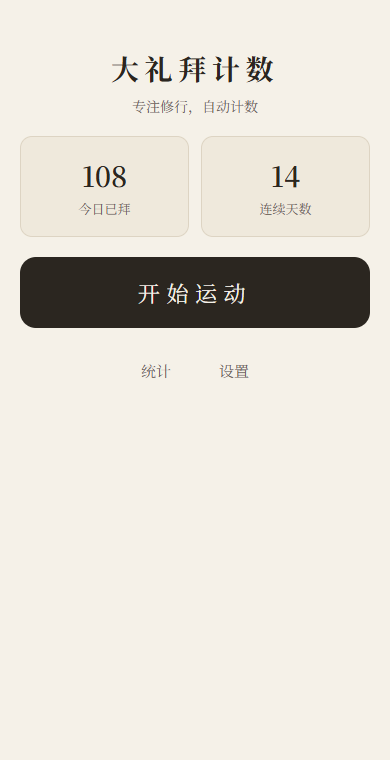
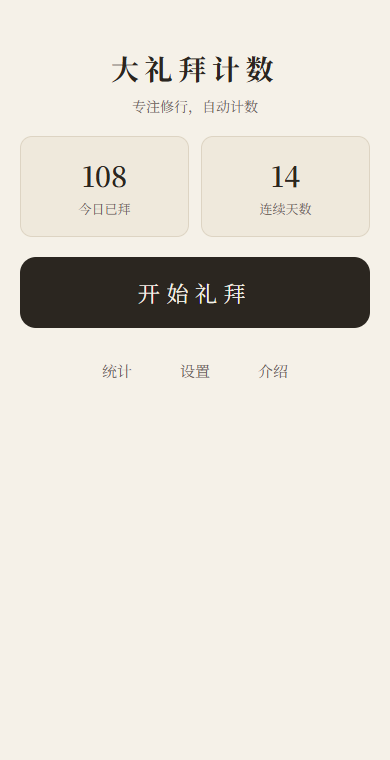
feat: 首次访问介绍页、微信内打开提示，"开始运动"改为"开始礼拜"
- 新用户（无记录且未看过介绍）进入介绍页：主张、演示动画、功能说明、隐私与模型下载须知，底部吸底按钮直达准备页
- 首页新增「介绍」入口，老用户可随时重看
- 微信内置浏览器顶部提示改用系统浏览器打开
- 演示动画移至 public/demo.svg，App 与 README 共用
- 更新 README 首页截图

diff --git a/src/pages/HomePage.tsx b/src/pages/HomePage.tsx
@@ -1,5 +1,7 @@
+import { useState } from 'react';
 import { useAppStore } from '../store/useAppStore';
 import { computeStreak, todayCount } from '../db/stats';
+import { isWeChat } from '../platform/support';
 
 function isIOS(): boolean {
   return /iP(hone|ad|od)/.test(navigator.userAgent);
@@ -9,13 +11,115 @@ function isStandalone(): boolean {
   return window.matchMedia('(display-mode: standalone)').matches;
 }
 
+export function WeChatBanner() {
+  if (!isWeChat()) return null;
+  return (
+    <div className="wechat-banner" role="alert">
+      微信内可能无法使用摄像头。请点右上角「···」→「在浏览器中打开」
+    </div>
+  );
+}
+
+function InstallHint() {
+  if (!isIOS() || isStandalone()) return null;
+  return <p className="hint center">iOS 用户：可通过 Safari「分享 → 添加到主屏幕」安装为应用</p>;
+}
+
+const FEATURES = [
+  ['自动计数', '识别「站立 → 下拜 → 五体投地 → 起身」完整一拜，起身站稳自动 +1，什么都不用按。'],
+  ['听声即知，不用看屏', '识别到下拜一声颂钵，完成一拜一声清磬，达成目标另有提示。'],
+  ['语音引导站位', '「请后退一步」「离得太远了」……按提示站好，倒数 5 秒自动开始。'],
+  ['每拜一字', '可选开启《道德经》全文随拜推进，进度跨天累计，功课做完，经也读了。'],
+  ['离开自动暂停', '接电话、开门，人走出画面即暂停，回来站好自动继续。'],
+] as const;
+
+const TRUST = [
+  ['视频不出手机', '识别全部在本机完成，不录制、不上传。'],
+  ['首次约 16 MB', '第一次开始时下载识别模型，建议连 Wi-Fi；之后断网也能用。'],
+  ['无账号、无广告', '记录只存在本机，可在设置中导出备份。'],
+] as const;
+
+function Intro({ firstTime, onStart, onSkip }: { firstTime: boolean; onStart(): void; onSkip(): void }) {
+  return (
+    <div className="page intro">
+      <WeChatBanner />
+      <header className="home-header">
+        <img className="intro-icon" src={`${import.meta.env.BASE_URL}icons/icon-192.png`} alt="" />
+        <h1>大礼拜计数</h1>
+        <p className="intro-tagline">把手机立在拜垫前，你只管磕头，它来数。</p>
+      </header>
+
+      <img
+        className="intro-demo"
+        src={`${import.meta.env.BASE_URL}demo.svg`}
+        alt="示意动画：人做大礼拜，手机屏幕上的计数自动增加，《道德经》逐字前进"
+      />
+
+      <section className="section">
+        <h3>它能做什么</h3>
+        <ul className="feature-list">
+          {FEATURES.map(([title, desc]) => (
+            <li key={title}>
+              <b>{title}</b>
+              <span>{desc}</span>
+            </li>
+          ))}
+        </ul>
+      </section>
+
+      <section className="section">
+        <h3>开始前须知</h3>
+        <div className="trust-grid">
+          {TRUST.map(([title, desc]) => (
+            <div className="stat-card" key={title}>
+              <b>{title}</b>
+              <p className="hint">{desc}</p>
+            </div>
+          ))}
+        </div>
+      </section>
+
+      <InstallHint />
+
+      <div className="intro-cta">
+        <button className="btn-primary btn-huge" onClick={onStart}>
+          {firstTime ? '开始第一次礼拜' : '开始礼拜'}
+        </button>
+        <button className="btn-text" onClick={onSkip}>
+          {firstTime ? '先看看首页' : '返回首页'}
+        </button>
+      </div>
+    </div>
+  );
+}
+
 export function HomePage() {
-  const { sessions, navigate, beginPrepare } = useAppStore();
+  const { sessions, settings, ready, navigate, beginPrepare, updateSettings } = useAppStore();
   const today = todayCount(sessions);
   const streak = computeStreak(sessions);
+  const [reopened, setReopened] = useState(false);
+
+  // 已有记录的老用户（含本字段上线前的用户）不再自动弹介绍，可从首页「介绍」重看
+  const firstTime = ready && !settings.introSeen && sessions.length === 0;
+  if (firstTime || reopened) {
+    return (
+      <Intro
+        firstTime={firstTime}
+        onStart={() => {
+          void updateSettings({ introSeen: true });
+          beginPrepare();
+        }}
+        onSkip={() => {
+          setReopened(false);
+          void updateSettings({ introSeen: true });
+        }}
+      />
+    );
+  }
 
   return (
     <div className="page home">
+      <WeChatBanner />
       <header className="home-header">
         <h1>大礼拜计数</h1>
         <p className="subtitle">专注修行，自动计数</p>
@@ -33,7 +137,7 @@ export function HomePage() {
       </div>
 
       <button className="btn-primary btn-huge" onClick={beginPrepare}>
-        开始运动
+        开始礼拜
       </button>
 
       <nav className="home-nav">
@@ -43,11 +147,12 @@ export function HomePage() {
         <button className="btn-text" onClick={() => navigate('settings')}>
           设置
         </button>
+        <button className="btn-text" onClick={() => setReopened(true)}>
+          介绍
+        </button>
       </nav>
 
-      {isIOS() && !isStandalone() && (
-        <p className="hint">iOS 用户：可通过 Safari「分享 → 添加到主屏幕」安装为应用</p>
-      )}
+      <InstallHint />
     </div>
   );
 }

diff --git a/src/styles.css b/src/styles.css
@@ -159,6 +159,88 @@ button {
   text-align: center;
 }
 
+/* —— 微信提示 / 首次介绍 —— */
+.wechat-banner {
+  background: var(--cinnabar);
+  color: var(--paper);
+  border-radius: 12px;
+  padding: 12px 16px;
+  font-size: 14px;
+  line-height: 1.6;
+  text-align: center;
+}
+
+.intro .home-header {
+  margin-top: 16px;
+}
+
+.intro-icon {
+  width: 64px;
+  height: 64px;
+  border-radius: 14px;
+  margin-bottom: 12px;
+}
+
+.intro-tagline {
+  margin-top: 12px;
+  font-size: 17px;
+  line-height: 1.6;
+}
+
+.intro-demo {
+  width: 100%;
+  height: auto;
+  border-radius: 12px;
+}
+
+.feature-list {
+  list-style: none;
+  display: flex;
+  flex-direction: column;
+  gap: 14px;
+}
+
+.feature-list li {
+  display: flex;
+  flex-direction: column;
+  gap: 4px;
+  padding-left: 14px;
+  border-left: 3px solid var(--cinnabar);
+}
+
+.feature-list span {
+  color: var(--ink-soft);
+  font-size: 14px;
+  line-height: 1.6;
+}
+
+.trust-grid {
+  display: grid;
+  gap: 10px;
+}
+
+.trust-grid .stat-card {
+  text-align: left;
+  padding: 14px 16px;
+}
+
+.trust-grid .hint {
+  margin-top: 4px;
+}
+
+/* 长页面里主按钮始终可见 */
+.intro-cta {
+  position: sticky;
+  bottom: 0;
+  margin: 0 -20px calc(-24px - env(safe-area-inset-bottom));
+  padding: 12px 20px calc(12px + env(safe-area-inset-bottom));
+  background: var(--paper);
+  border-top: 1px solid var(--line);
+  display: flex;
+  flex-direction: column;
+  gap: 4px;
+}
+
 .warning {
   color: var(--cinnabar);
   font-size: 14px;

diff --git a/src/store/useAppStore.ts b/src/store/useAppStore.ts
@@ -33,6 +33,8 @@ export interface SessionSummary {
 interface AppState {
   page: Page;
   supportReasons: string[];
+  /** 本地数据已读入；之前 settings/sessions 是默认值，不能据此判断是否新用户。 */
+  ready: boolean;
   settings: Settings;
   sessions: Session[];
   charIndex: number;
@@ -80,6 +82,7 @@ export function sessionDurationSec(s: Pick<AppState, 'activeMs' | 'resumeMark' |
 export const useAppStore = create<AppState>((set, get) => ({
   page: 'home',
   supportReasons: [],
+  ready: false,
   settings: { ...DEFAULT_SETTINGS },
   sessions: [],
   charIndex: 0,
@@ -100,7 +103,7 @@ export const useAppStore = create<AppState>((set, get) => ({
       loadProgress(),
       db.sessions.orderBy('startedAt').reverse().toArray(),
     ]);
-    set({ settings, charIndex: progress.charIndex, sessions });
+    set({ settings, charIndex: progress.charIndex, sessions, ready: true });
   },
 
   navigate(page) {

diff --git a/src/pages/SettingsPage.tsx b/src/pages/SettingsPage.tsx
@@ -157,7 +157,7 @@ export function SettingsPage() {
         <h3>关于</h3>
         <p className="hint">
           大礼拜计数 v0.1 · 纯本地运行：视频不出设备，数据仅存本机，无任何网络请求与埋点。
-          运动中建议插电使用。提示语音为 AI 合成。
+          礼拜时建议插电使用。提示语音为 AI 合成。
         </p>
       </section>
     </div>

diff --git a/src/platform/support.ts b/src/platform/support.ts
@@ -5,6 +5,11 @@ export interface SupportResult {
   reasons: string[];
 }
 
+/** 微信内置浏览器：摄像头常不可用，需引导到系统浏览器打开。 */
+export function isWeChat(): boolean {
+  return /MicroMessenger/i.test(navigator.userAgent);
+}
+
 export function checkSupport(): SupportResult {
   const reasons: string[] = [];
   if (!navigator.mediaDevices?.getUserMedia) {

diff --git a/src/db/db.ts b/src/db/db.ts
@@ -31,6 +31,8 @@ export interface Settings {
   debugOverlay?: boolean;
   /** 姿态识别引擎，未设置视为 movenet。 */
   poseModel?: PoseModel;
+  /** 首次介绍页已看过（点了开始或跳过）。 */
+  introSeen?: boolean;
 }
 
 export type PoseModel = 'mediapipe' | 'movenet';

diff --git a/src/pages/UnsupportedPage.tsx b/src/pages/UnsupportedPage.tsx
@@ -1,6 +1,9 @@
+import { WeChatBanner } from './HomePage';
+
 export function UnsupportedPage({ reasons }: { reasons: string[] }) {
   return (
     <div className="page">
+      <WeChatBanner />
       <header className="home-header">
         <h1>大礼拜计数</h1>
       </header>

diff --git a/README.en.md b/README.en.md
@@ -20,7 +20,7 @@ Runs in the browser · nothing to install · no sign-up · video never leaves yo
 
 <br/>
 
-<img src="docs/demo.svg" width="760" alt="Animation: a figure performs prostrations while the phone screen counts from 104 to 108 and advances through the Tao Te Ching" />
+<img src="public/demo.svg" width="760" alt="Animation: a figure performs prostrations while the phone screen counts from 104 to 108 and advances through the Tao Te Ching" />
 
 </div>
 
@@ -84,7 +84,7 @@ This app fixes that. Stand your phone up in front of you, and every time you ret
 ### A full session
 
 1. **Place your phone.** Stand it upright with the screen facing you, bottom on the floor and tilted slightly back (leaning it on a cup or a book is fine). Put it **about 10–20 cm beyond your fingertips** when you're lying flat with your arms stretched out.
-2. **Tap 开始运动 (Start), then 开始**, and allow camera access. To read along, switch on 显示《道德经》逐字 (*Show Tao Te Ching*) on the prepare page.
+2. **Tap 开始礼拜 (Start), then 开始**, and allow camera access. To read along, switch on 显示《道德经》逐字 (*Show Tao Te Ching*) on the prepare page.
 3. **Step back and stand still.** Your whole body should be in frame, standing straight with your arms relaxed at your sides. Voice prompts help you adjust, and counting starts after a **5-second countdown**.
 4. **Prostrate.** The 🔔 singing bowl means a bow has been detected. Stand back up and the chime means **+1**.
 5. **Finish.** Tap 结束 (End) to save the session. Your totals and streak update automatically.

diff --git a/README.md b/README.md
@@ -20,7 +20,7 @@
 
 <br/>
 
-<img src="docs/demo.svg" width="760" alt="示意动画：人做大礼拜，手机屏幕上的计数从 104 涨到 108，《道德经》逐字前进" />
+<img src="public/demo.svg" width="760" alt="示意动画：人做大礼拜，手机屏幕上的计数从 104 涨到 108，《道德经》逐字前进" />
 
 </div>
 
@@ -82,7 +82,7 @@
 ### 一次完整的功课
 
 1. **摆好手机** —— 手机竖放、屏幕朝向你，底部着地、略向后仰（靠在水杯或书上就行），放在你**趴下伸直手臂后指尖前方约 10–20 厘米**的地方。
-2. **点「开始运动」→「开始」**，允许使用摄像头（想边拜边读经，在准备页打开「显示《道德经》逐字」）。首次使用会下载识别模型（约 16 MB），之后离线可用。
+2. **点「开始礼拜」→「开始」**，允许使用摄像头（想边拜边读经，在准备页打开「显示《道德经》逐字」）。首次使用会下载识别模型（约 16 MB），之后离线可用。
 3. **后退站好** —— 站在起拜位置，头到脚都在画面里，站直、双手自然下垂。语音会提示你前后调整，就位后**倒数 5 秒**开始计数。
 4. **开始拜** —— 听到 🔔 颂钵声表示"已识别到下拜"，起身站稳听到清磬声就是 **+1**。抬头就能看到数字（开启经书时还有下一个字）。
 5. **结束** —— 点「结束」保存本次记录，累计数、连续天数自动更新。
